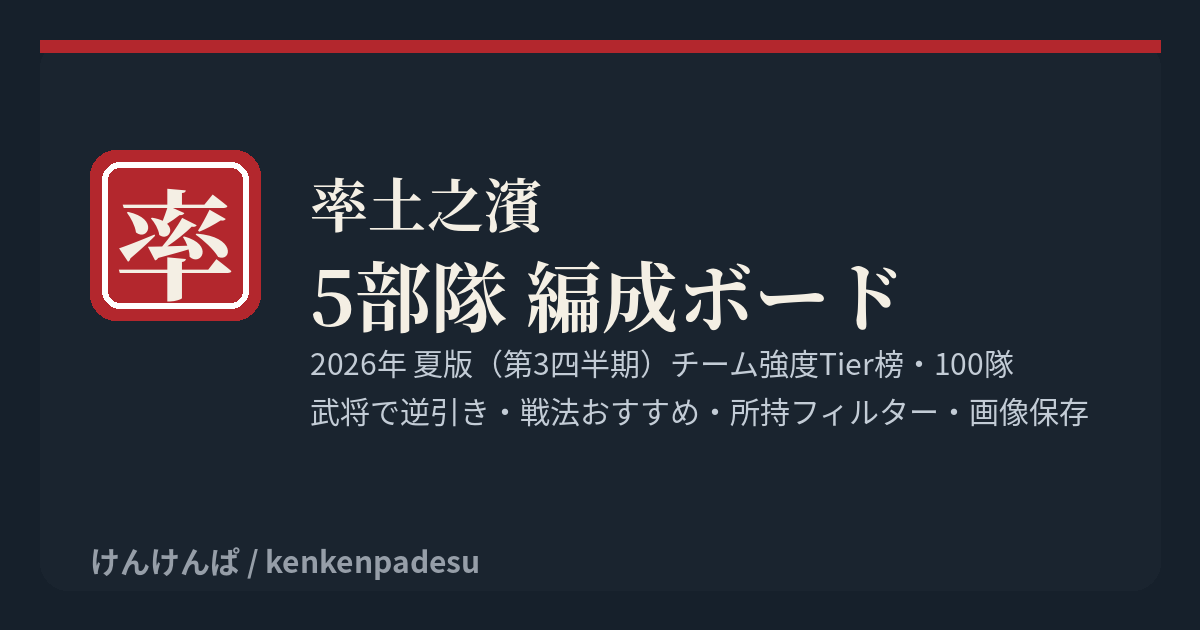
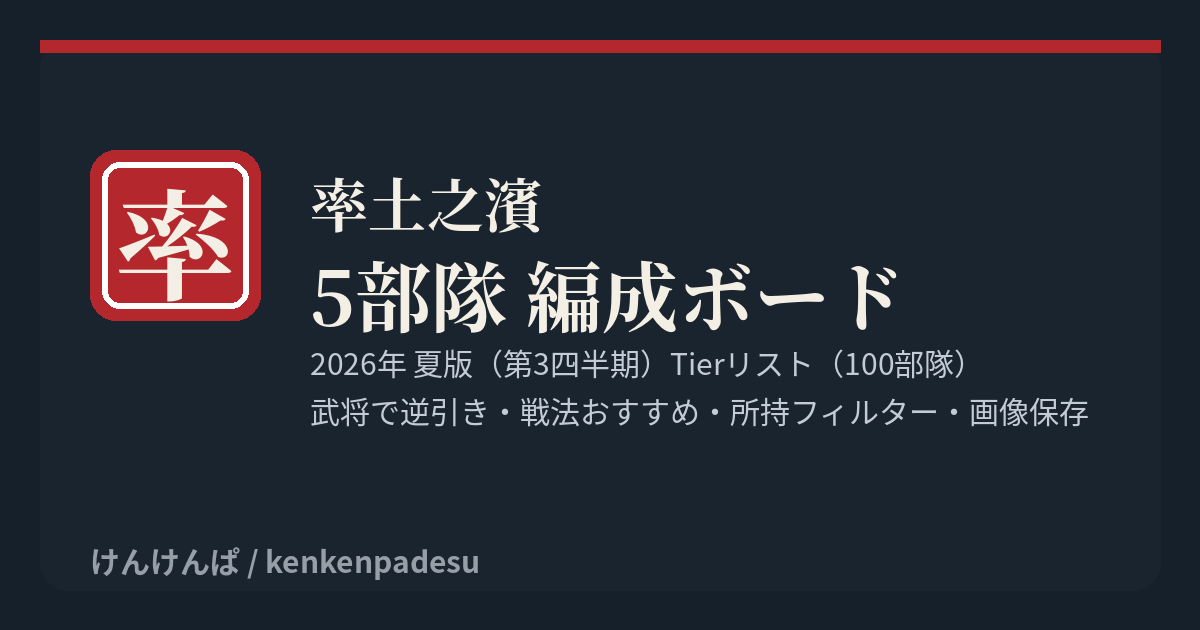
Add files via upload

Changed region(s): [[0.555, 0.5429, 0.8633, 0.6032]]

diff --git a/butai-hensei/index.html b/butai-hensei/index.html
@@ -4,7 +4,7 @@
 <meta charset="utf-8">
 <meta name="viewport" content="width=device-width, initial-scale=1">
 <title>率土之濱 5部隊編成ボード｜2026夏版 Tier表</title>
-<meta name="description" content="率土之濱-大三国志 2026年夏版（第3四半期）チーム強度Tier榜100隊を日本語化。武将で逆引き、戦法おすすめ、所持武将フィルター、5部隊の編成シミュレート・画像保存ができます。">
+<meta name="description" content="率土之濱-大三国志 2026年夏版（第3四半期）Tierリスト（100部隊）を日本語化。武将で逆引き、戦法おすすめ、所持武将フィルター、5部隊の編成シミュレート・画像保存ができます。">
 <meta name="theme-color" content="#16202b">
 <link rel="icon" href="favicon.svg" type="image/svg+xml">
 <link rel="icon" href="favicon-32.png" sizes="32x32" type="image/png">
@@ -12,13 +12,13 @@
 <meta property="og:type" content="website">
 <meta property="og:site_name" content="率土之濱 5部隊編成ボード">
 <meta property="og:title" content="率土之濱 5部隊編成ボード｜2026夏版 Tier表">
-<meta property="og:description" content="2026夏版のTier榜100隊を日本語化。武将で逆引き・戦法おすすめ・所持フィルター・画像保存。">
+<meta property="og:description" content="2026夏版のTierリスト（100部隊）を日本語化。武将で逆引き・戦法おすすめ・所持フィルター・画像保存。">
 <meta property="og:url" content="https://kenkenpadesu.github.io/daisangokushi/butai-hensei/">
 <meta property="og:image" content="https://kenkenpadesu.github.io/daisangokushi/butai-hensei/ogp.png">
 <meta property="og:locale" content="ja_JP">
 <meta name="twitter:card" content="summary_large_image">
 <meta name="twitter:title" content="率土之濱 5部隊編成ボード｜2026夏版 Tier表">
-<meta name="twitter:description" content="2026夏版のTier榜100隊を日本語化。武将で逆引き・戦法おすすめ・所持フィルター・画像保存。">
+<meta name="twitter:description" content="2026夏版のTierリスト（100部隊）を日本語化。武将で逆引き・戦法おすすめ・所持フィルター・画像保存。">
 <meta name="twitter:image" content="https://kenkenpadesu.github.io/daisangokushi/butai-hensei/ogp.png">
 <!-- Google Tag Manager -->
 <script>(function(w,d,s,l,i){w[l]=w[l]||[];w[l].push({'gtm.start':new Date().getTime(),event:'gtm.js'});var f=d.getElementsByTagName(s)[0],j=d.createElement(s),dl=l!='dataLayer'?'&l='+l:'';j.async=true;j.src='https://www.googletagmanager.com/gtm.js?id='+i+dl;f.parentNode.insertBefore(j,f);})(window,document,'script','dataLayer','GTM-NK4MCM9C');</script>
@@ -337,7 +337,7 @@ body.dark .tag.w{background:rgba(224,85,91,.16);color:#f0888c}
       <div class="seal mincho">率</div>
       <div>
         <h1>率土之滨 部隊編成ボード</h1>
-        <div class="sub">2026年 夏版（第3四半期）チーム強度Tier榜・100隊 ／ 日本語版</div>
+        <div class="sub">2026年 夏版（第3四半期）Tierリスト（100部隊） ／ 日本語版</div>
       </div>
     </div>
     <div class="tabs" role="tablist">
@@ -406,7 +406,7 @@ body.dark .tag.w{background:rgba(224,85,91,.16);color:#f0888c}
       </a>
     </div>
     <div class="foot-cite">
-      データ出典：<a href="https://m.ds.163.com/article/6a6ed31ce034c360f1fc11dd/" target="_blank" rel="noopener">碧版 2026年 第3四半期 チーム強度Tier榜（原作者 @老碧666）</a> を日本語化。<br>
+      データ出典：<a href="https://m.ds.163.com/article/6a6ed31ce034c360f1fc11dd/" target="_blank" rel="noopener">碧版 2026年 第3四半期 Tierリスト（原作者 @老碧666）</a> を日本語化。<br>
       「/」は「どちらか一方（or）」の意味です。戦法名はゲーム内正式名に準拠。実際のゲーム内設定・バージョンにより数値は変動します。本サイトは非公式のファンツールです。
     </div>
     <div class="foot-links"><button class="foot-link" id="helpOpen">使い方</button></div>
@@ -3311,7 +3311,7 @@ function drawShareCard(cb){
   g.fillStyle=SEAL;g.font='700 36px '+SANS;g.textBaseline='alphabetic';g.fillText('QRで続きから編集',pad+6,fy+40);
   g.fillStyle=MUTED;g.font='400 28px '+SANS;g.fillText('スキャンすると、この編成が復元されます。',pad+6,fy+94);
   g.fillText('同じ端末なら、開くだけで前回の続きから再開。',pad+6,fy+138);
-  g.fillStyle='#96a0a8';g.font='400 22px '+SANS;g.fillText('碧版2026 第3四半期 Tier榜（原作者 @老碧666）を日本語化',pad+6,fy+204);
+  g.fillStyle='#96a0a8';g.font='400 22px '+SANS;g.fillText('碧版2026 第3四半期 Tierリスト（原作者 @老碧666）を日本語化',pad+6,fy+204);
   cb(cv);
 }
 function dispZh(jp){const t=TEAMS.find(x=>x.name===jp);return t?(t.name_zh||t.name):jp;}
